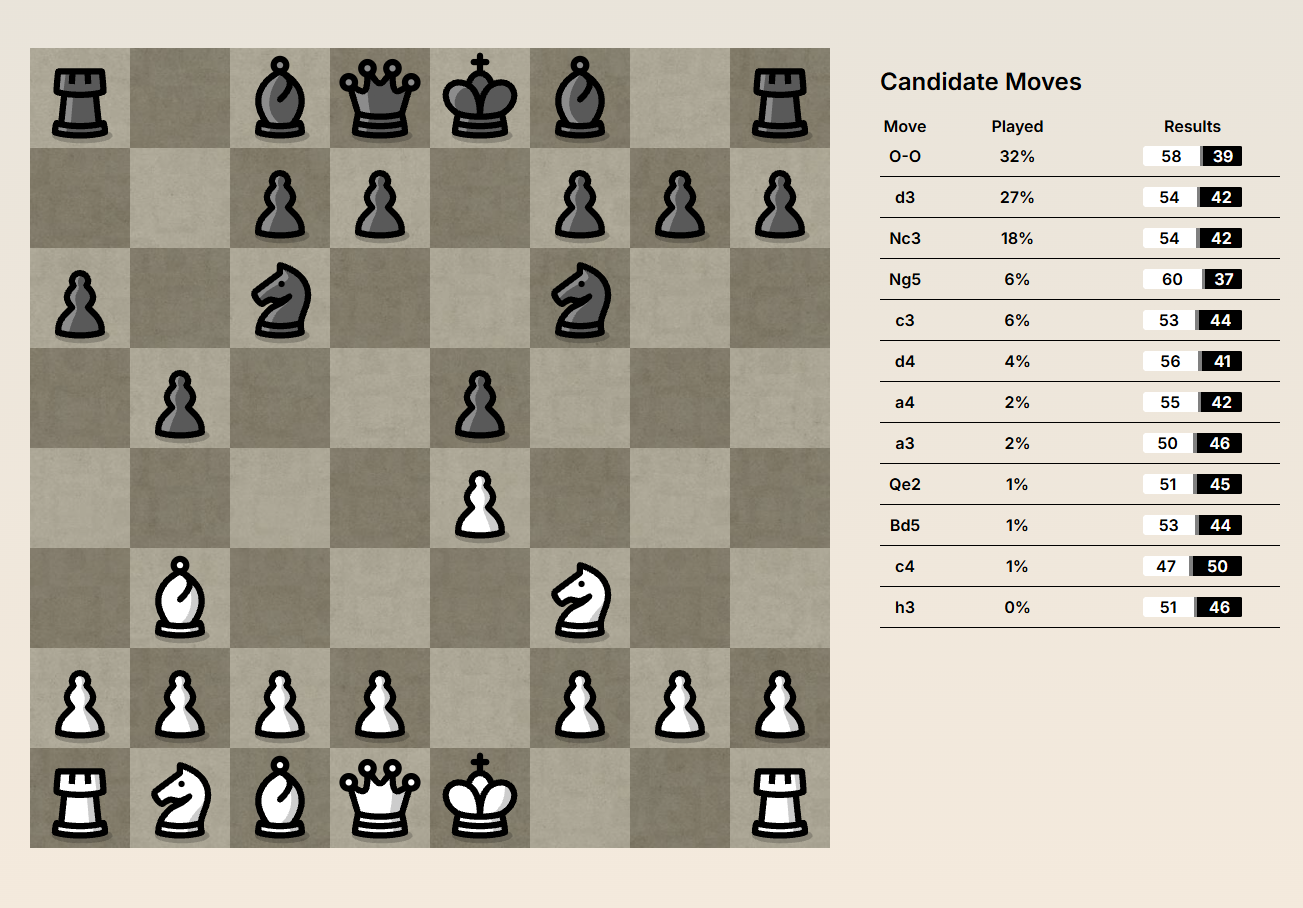
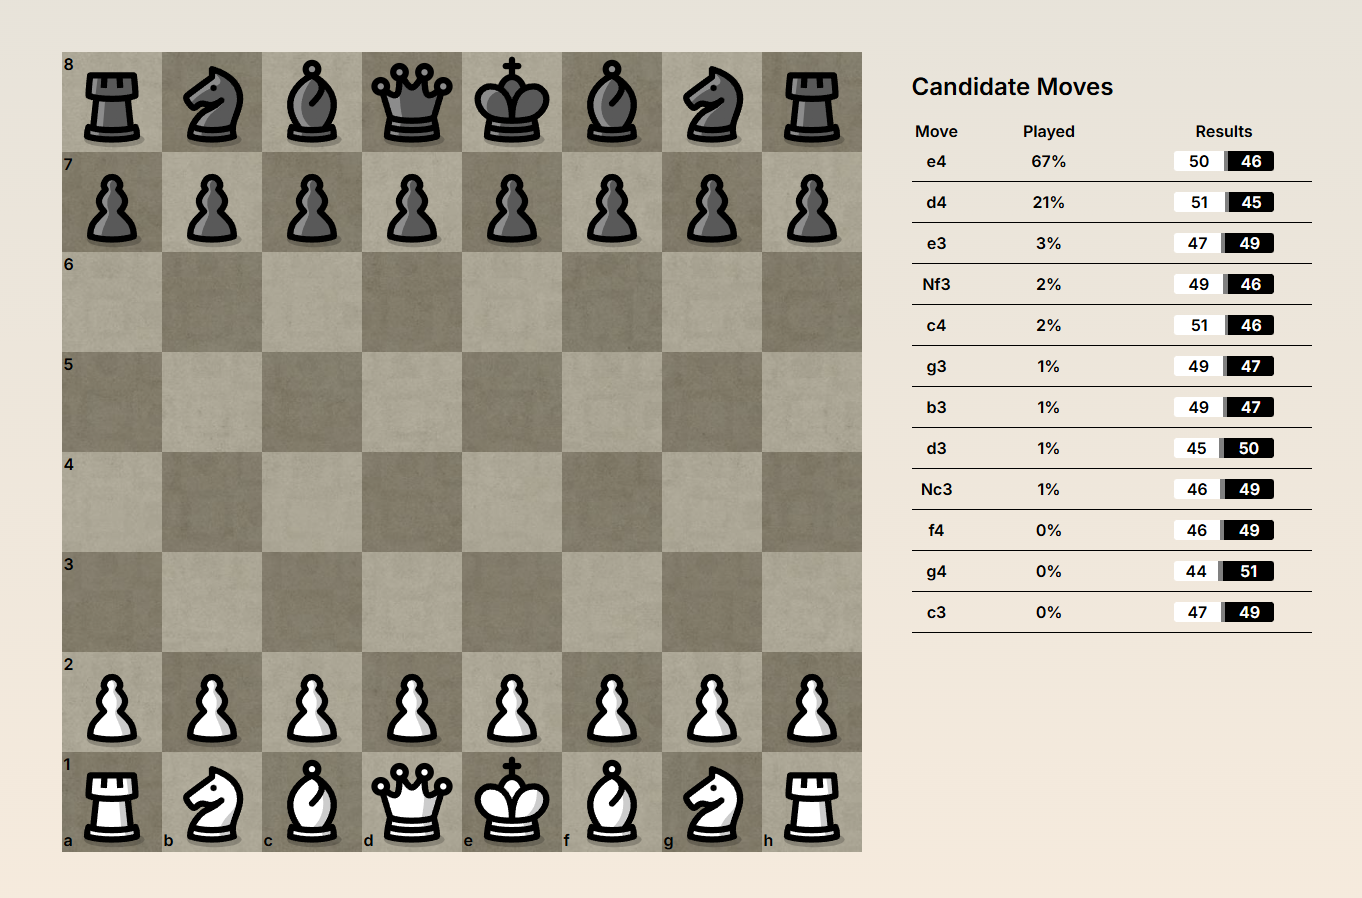
feat(frontend): add coordinate markers for ranks and files on the board

Changed region(s): [[0.0, 0.0312, 0.6447, 0.9666], [0.6754, 0.0624, 0.9823, 0.7171]]

diff --git a/chess-frontend/src/Board.tsx b/chess-frontend/src/Board.tsx
@@ -50,7 +50,16 @@ function SquareCell({
             alt={`${piece.color === 'w' ? 'White' : 'Black'} ${piece.type}`}
           />
         ))}
+
       {isValidDestination && <div className="valid-move-marker"></div>}
+
+      {row === 7 &&
+        <div className='coordinate-files'>{'abcdefgh'[col]}</div>
+      }
+
+      {col === 0 &&
+        <div className='coordinate-ranks'>{8-row}</div>
+      }
     </div>
   );
 }

diff --git a/chess-frontend/src/chess.css b/chess-frontend/src/chess.css
@@ -78,6 +78,7 @@ body {
   bottom: 2px;
   left: 2px;
   user-select: none;
+  pointer-events: none;
 }
 
 .coordinate-ranks {
@@ -85,6 +86,7 @@ body {
   top: 2px;
   left: 2px;
   user-select: none;
+  pointer-events: none;
 }
 
 .selected {

diff --git a/chess-frontend/src/types.ts b/chess-frontend/src/types.ts
@@ -75,3 +75,9 @@ export interface CandidateMove {
   drawPercent: number;
   blackPercent: number;
 }
+
+export interface RepertoireNode {
+  candidateMoves: CandidateMove[]
+  move: string;
+  children: RepertoireNode[]
+}
